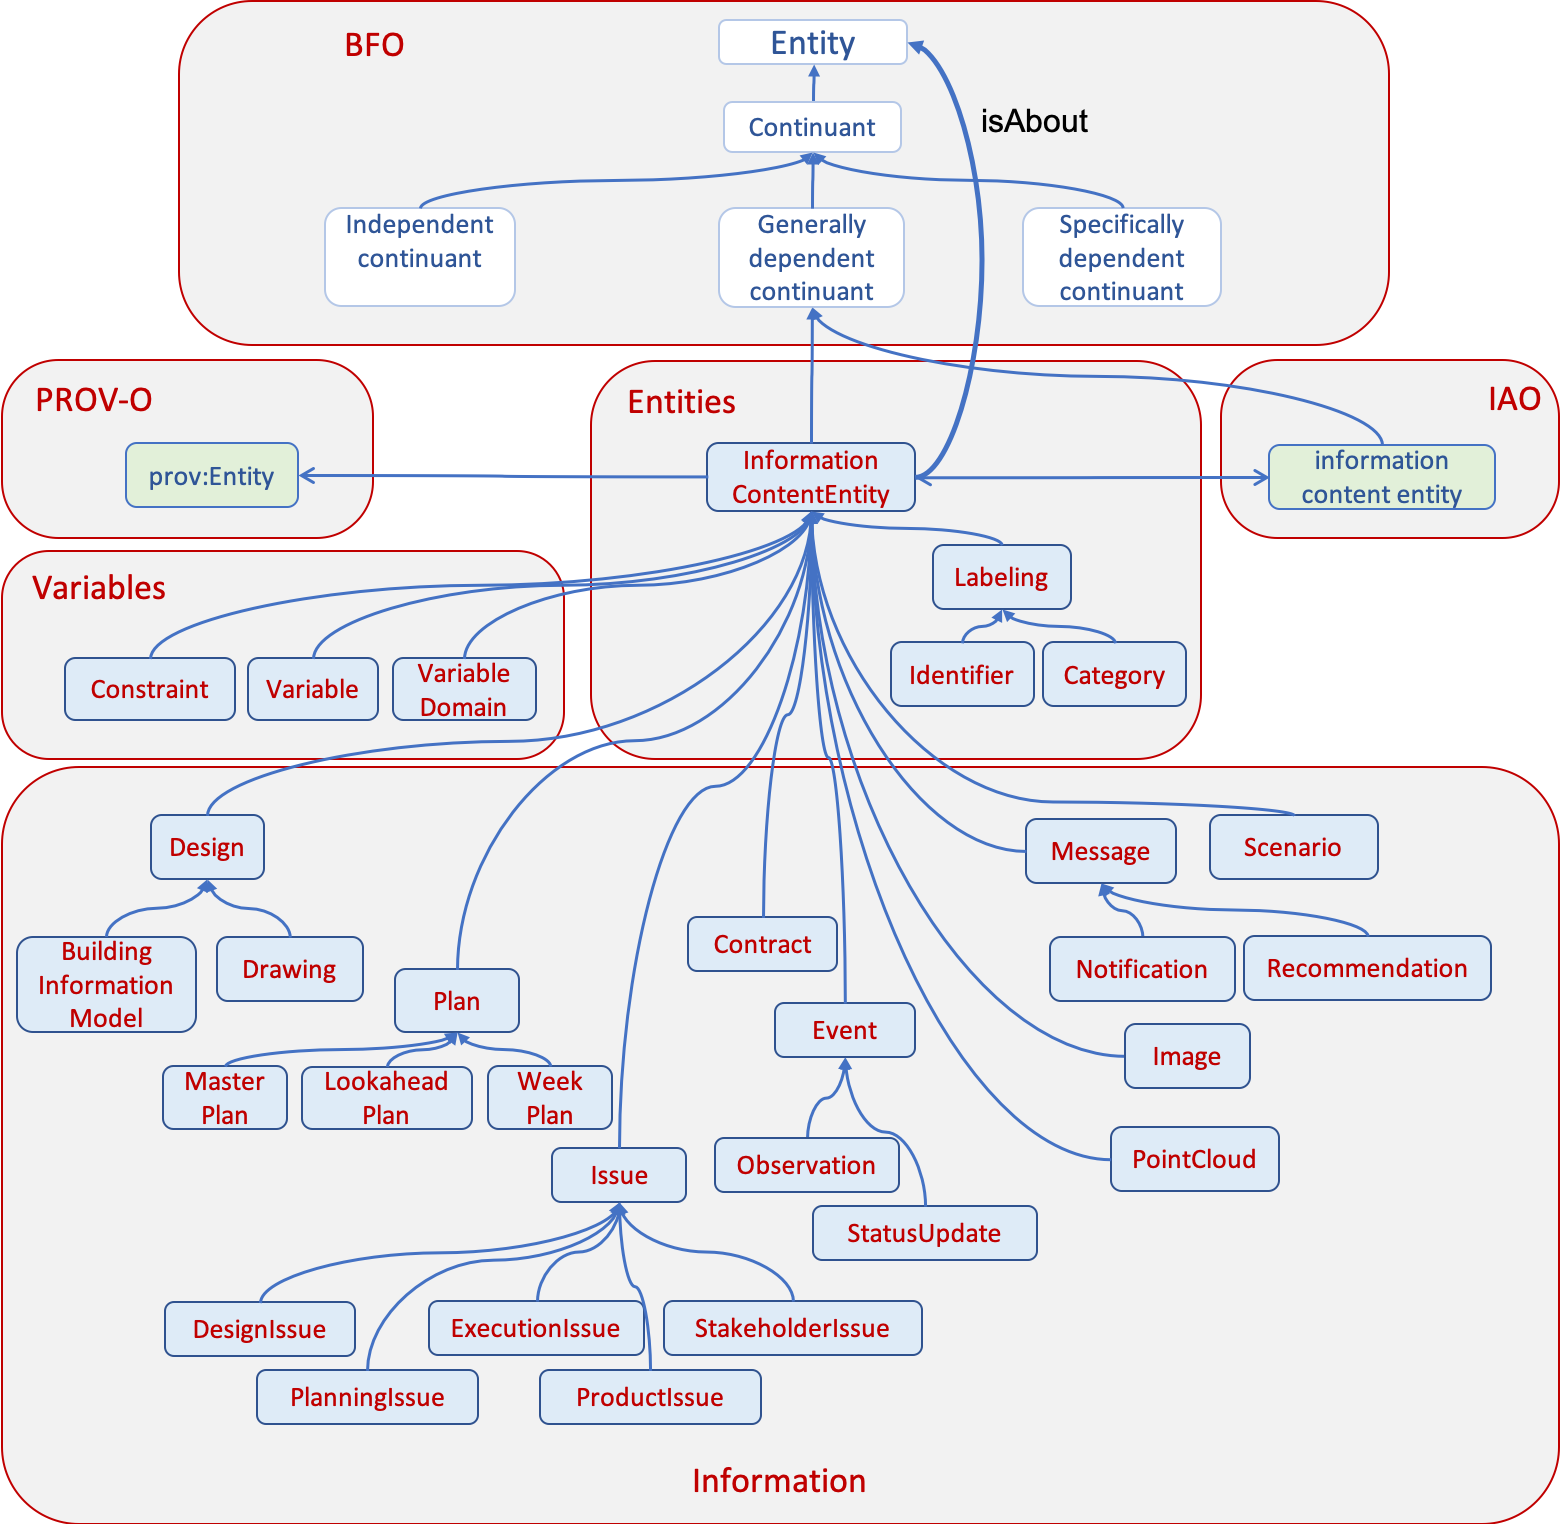
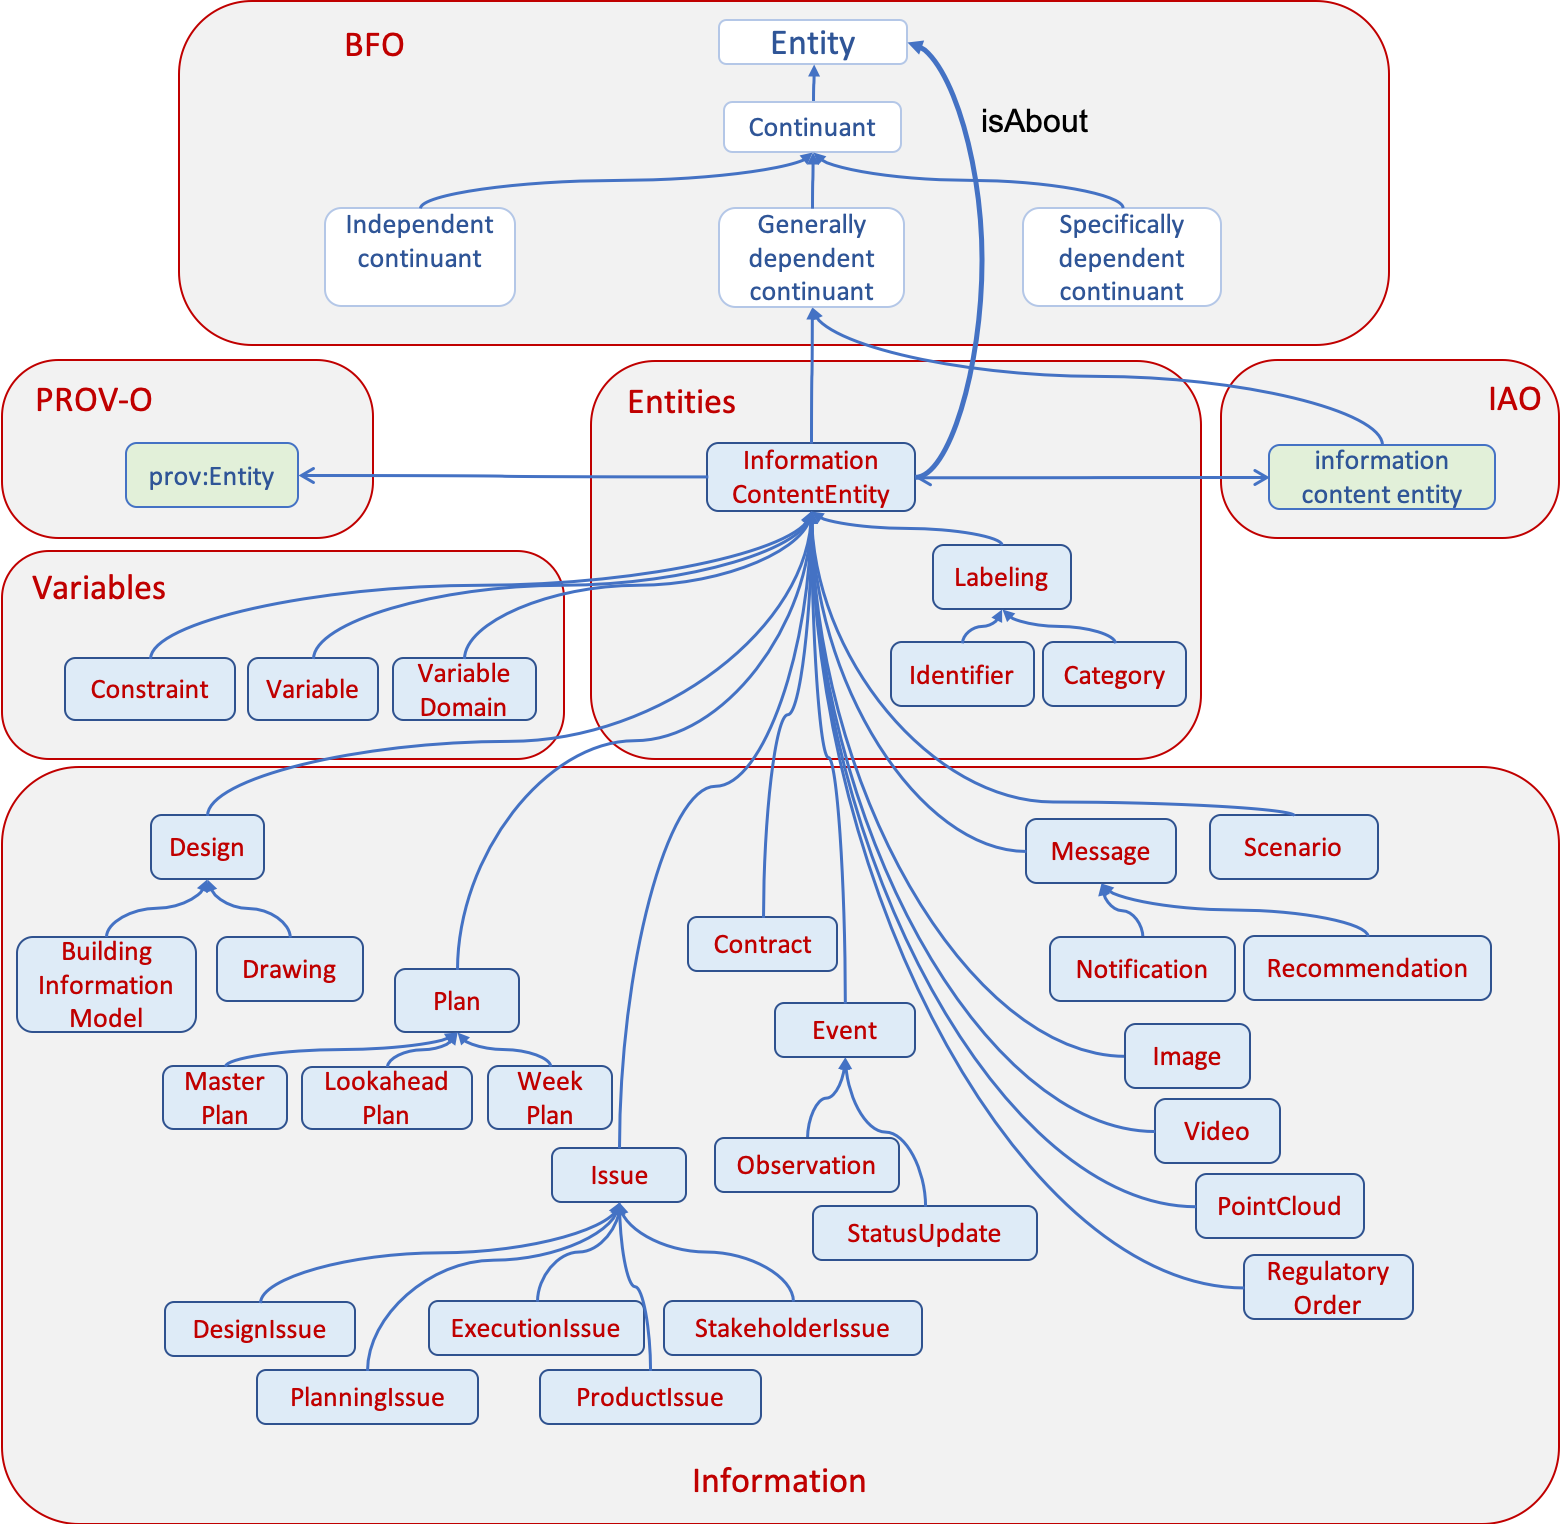
regulation

diff --git a/myDocumentation/sections/crossref-en.html b/myDocumentation/sections/crossref-en.html
@@ -124,6 +124,10 @@ This section provides details for each class and property defined by Digital Con
             title="https://w3id.org/digitalconstruction/Information#Recommendation">Recommendation</a>
       </li>
       <li>
+         <a href="#RegulatoryOrder"
+            title="https://w3id.org/digitalconstruction/Information#RegulatoryOrder">RegulatoryOrder</a>
+      </li>
+      <li>
          <a href="#ResourceConflict"
             title="https://w3id.org/digitalconstruction/Information#ResourceConflict">ResourceConflict</a>
       </li>
@@ -162,6 +166,10 @@ This section provides details for each class and property defined by Digital Con
       <li>
          <a href="#UnexecutableActivity"
             title="https://w3id.org/digitalconstruction/Information#UnexecutableActivity">UnexecutableActivity</a>
+      </li>
+      <li>
+         <a href="#Video"
+            title="https://w3id.org/digitalconstruction/Information#Video">Video</a>
       </li>
       <li>
          <a href="#WeekPlan"
@@ -920,6 +928,31 @@ This section provides details for each class and property defined by Digital Con
          </dd>
       </dl>
    </div>
+   <div class="entity" id="RegulatoryOrder">
+      <h3>RegulatoryOrder<sup class="type-c" title="class">c</sup>
+         <span class="backlink"> back to <a href="#toc">ToC</a> or <a href="#classes">Class ToC</a>
+         </span>
+      </h3>
+      <p>
+         <strong>IRI:</strong> https://w3id.org/digitalconstruction/Information#RegulatoryOrder</p>
+      <div class="comment">
+         <span class="markdown">Regulatory Order means any injunction, order, judgment, decree, memorandum of understanding, consent decree, directive or regulatory restriction, or any change in or interpretation of any law, rule or regulation, imposed by a Governmental Entity. (https://www.lawinsider.com/)</span>
+      </div>
+      <dl class="description">
+         <dt>has super-classes</dt>
+         <dd>
+            <span class="dotted"
+                  title="https://w3id.org/digitalconstruction/Entities#InformationContentEntity">information content entity</span>
+            <sup class="type-c" title="class">c</sup>
+         </dd>
+         <dt>is in domain of</dt>
+         <dd>
+            <a href="#imposedBy"
+               title="https://w3id.org/digitalconstruction/Information#imposedBy">imposedBy</a>
+            <sup class="type-op" title="object property">op</sup>
+         </dd>
+      </dl>
+   </div>
    <div class="entity" id="ResourceConflict">
       <h3>ResourceConflict<sup class="type-c" title="class">c</sup>
          <span class="backlink"> back to <a href="#toc">ToC</a> or <a href="#classes">Class ToC</a>
@@ -1113,6 +1146,22 @@ This section provides details for each class and property defined by Digital Con
          </dd>
       </dl>
    </div>
+   <div class="entity" id="Video">
+      <h3>Video<sup class="type-c" title="class">c</sup>
+         <span class="backlink"> back to <a href="#toc">ToC</a> or <a href="#classes">Class ToC</a>
+         </span>
+      </h3>
+      <p>
+         <strong>IRI:</strong> https://w3id.org/digitalconstruction/Information#Video</p>
+      <dl class="description">
+         <dt>has super-classes</dt>
+         <dd>
+            <span class="dotted"
+                  title="https://w3id.org/digitalconstruction/Entities#InformationContentEntity">information content entity</span>
+            <sup class="type-c" title="class">c</sup>
+         </dd>
+      </dl>
+   </div>
    <div class="entity" id="WeekPlan">
       <h3>WeekPlan<sup class="type-c" title="class">c</sup>
          <span class="backlink"> back to <a href="#toc">ToC</a> or <a href="#classes">Class ToC</a>
@@ -1199,6 +1248,10 @@ This section provides details for each class and property defined by Digital Con
       <li>
          <a href="#hasSolution"
             title="https://w3id.org/digitalconstruction/Information#hasSolution">hasSolution</a>
+      </li>
+      <li>
+         <a href="#imposedBy"
+            title="https://w3id.org/digitalconstruction/Information#imposedBy">imposedBy</a>
       </li>
       <li>
          <a href="#isPlannedActiviyOf"
@@ -1636,6 +1689,29 @@ This section provides details for each class and property defined by Digital Con
                <a href="#Issue"
                   title="https://w3id.org/digitalconstruction/Information#Issue">Issue</a>
                <sup class="type-c" title="class">c</sup>
+            </dd>
+         </dl>
+      </div>
+   </div>
+   <div class="entity" id="imposedBy">
+      <h3>imposedBy<sup class="type-op" title="object property">op</sup>
+         <span class="backlink"> back to <a href="#toc">ToC</a> or <a href="#objectproperties">Object Property ToC</a>
+         </span>
+      </h3>
+      <p>
+         <strong>IRI:</strong> https://w3id.org/digitalconstruction/Information#imposedBy</p>
+      <div class="description">
+         <dl>
+            <dt>has domain</dt>
+            <dd>
+               <a href="#RegulatoryOrder"
+                  title="https://w3id.org/digitalconstruction/Information#RegulatoryOrder">RegulatoryOrder</a>
+               <sup class="type-c" title="class">c</sup>
+            </dd>
+            <dt>has range</dt>
+            <dd>
+               <span class="dotted"
+                     title="https://w3id.org/digitalconstruction/Entities#Agent">agent</span>
             </dd>
          </dl>
       </div>

diff --git a/sections/crossref-en.html b/sections/crossref-en.html
@@ -124,6 +124,10 @@ This section provides details for each class and property defined by Digital Con
             title="https://w3id.org/digitalconstruction/Information#Recommendation">Recommendation</a>
       </li>
       <li>
+         <a href="#RegulatoryOrder"
+            title="https://w3id.org/digitalconstruction/Information#RegulatoryOrder">RegulatoryOrder</a>
+      </li>
+      <li>
          <a href="#ResourceConflict"
             title="https://w3id.org/digitalconstruction/Information#ResourceConflict">ResourceConflict</a>
       </li>
@@ -162,6 +166,10 @@ This section provides details for each class and property defined by Digital Con
       <li>
          <a href="#UnexecutableActivity"
             title="https://w3id.org/digitalconstruction/Information#UnexecutableActivity">UnexecutableActivity</a>
+      </li>
+      <li>
+         <a href="#Video"
+            title="https://w3id.org/digitalconstruction/Information#Video">Video</a>
       </li>
       <li>
          <a href="#WeekPlan"
@@ -920,6 +928,31 @@ This section provides details for each class and property defined by Digital Con
          </dd>
       </dl>
    </div>
+   <div class="entity" id="RegulatoryOrder">
+      <h3>RegulatoryOrder<sup class="type-c" title="class">c</sup>
+         <span class="backlink"> back to <a href="#toc">ToC</a> or <a href="#classes">Class ToC</a>
+         </span>
+      </h3>
+      <p>
+         <strong>IRI:</strong> https://w3id.org/digitalconstruction/Information#RegulatoryOrder</p>
+      <div class="comment">
+         <span class="markdown">Regulatory Order means any injunction, order, judgment, decree, memorandum of understanding, consent decree, directive or regulatory restriction, or any change in or interpretation of any law, rule or regulation, imposed by a Governmental Entity. (https://www.lawinsider.com/)</span>
+      </div>
+      <dl class="description">
+         <dt>has super-classes</dt>
+         <dd>
+            <span class="dotted"
+                  title="https://w3id.org/digitalconstruction/Entities#InformationContentEntity">information content entity</span>
+            <sup class="type-c" title="class">c</sup>
+         </dd>
+         <dt>is in domain of</dt>
+         <dd>
+            <a href="#imposedBy"
+               title="https://w3id.org/digitalconstruction/Information#imposedBy">imposedBy</a>
+            <sup class="type-op" title="object property">op</sup>
+         </dd>
+      </dl>
+   </div>
    <div class="entity" id="ResourceConflict">
       <h3>ResourceConflict<sup class="type-c" title="class">c</sup>
          <span class="backlink"> back to <a href="#toc">ToC</a> or <a href="#classes">Class ToC</a>
@@ -1113,6 +1146,22 @@ This section provides details for each class and property defined by Digital Con
          </dd>
       </dl>
    </div>
+   <div class="entity" id="Video">
+      <h3>Video<sup class="type-c" title="class">c</sup>
+         <span class="backlink"> back to <a href="#toc">ToC</a> or <a href="#classes">Class ToC</a>
+         </span>
+      </h3>
+      <p>
+         <strong>IRI:</strong> https://w3id.org/digitalconstruction/Information#Video</p>
+      <dl class="description">
+         <dt>has super-classes</dt>
+         <dd>
+            <span class="dotted"
+                  title="https://w3id.org/digitalconstruction/Entities#InformationContentEntity">information content entity</span>
+            <sup class="type-c" title="class">c</sup>
+         </dd>
+      </dl>
+   </div>
    <div class="entity" id="WeekPlan">
       <h3>WeekPlan<sup class="type-c" title="class">c</sup>
          <span class="backlink"> back to <a href="#toc">ToC</a> or <a href="#classes">Class ToC</a>
@@ -1199,6 +1248,10 @@ This section provides details for each class and property defined by Digital Con
       <li>
          <a href="#hasSolution"
             title="https://w3id.org/digitalconstruction/Information#hasSolution">hasSolution</a>
+      </li>
+      <li>
+         <a href="#imposedBy"
+            title="https://w3id.org/digitalconstruction/Information#imposedBy">imposedBy</a>
       </li>
       <li>
          <a href="#isPlannedActiviyOf"
@@ -1636,6 +1689,29 @@ This section provides details for each class and property defined by Digital Con
                <a href="#Issue"
                   title="https://w3id.org/digitalconstruction/Information#Issue">Issue</a>
                <sup class="type-c" title="class">c</sup>
+            </dd>
+         </dl>
+      </div>
+   </div>
+   <div class="entity" id="imposedBy">
+      <h3>imposedBy<sup class="type-op" title="object property">op</sup>
+         <span class="backlink"> back to <a href="#toc">ToC</a> or <a href="#objectproperties">Object Property ToC</a>
+         </span>
+      </h3>
+      <p>
+         <strong>IRI:</strong> https://w3id.org/digitalconstruction/Information#imposedBy</p>
+      <div class="description">
+         <dl>
+            <dt>has domain</dt>
+            <dd>
+               <a href="#RegulatoryOrder"
+                  title="https://w3id.org/digitalconstruction/Information#RegulatoryOrder">RegulatoryOrder</a>
+               <sup class="type-c" title="class">c</sup>
+            </dd>
+            <dt>has range</dt>
+            <dd>
+               <span class="dotted"
+                     title="https://w3id.org/digitalconstruction/Entities#Agent">agent</span>
             </dd>
          </dl>
       </div>

diff --git a/myDocumentation/sections/overview-en.html b/myDocumentation/sections/overview-en.html
@@ -124,6 +124,10 @@ This ontology has the following classes and properties.</span>
          title="https://w3id.org/digitalconstruction/Information#Recommendation">Recommendation</a>
    </li>
    <li>
+      <a href="#RegulatoryOrder"
+         title="https://w3id.org/digitalconstruction/Information#RegulatoryOrder">RegulatoryOrder</a>
+   </li>
+   <li>
       <a href="#ResourceConflict"
          title="https://w3id.org/digitalconstruction/Information#ResourceConflict">ResourceConflict</a>
    </li>
@@ -162,6 +166,10 @@ This ontology has the following classes and properties.</span>
    <li>
       <a href="#UnexecutableActivity"
          title="https://w3id.org/digitalconstruction/Information#UnexecutableActivity">UnexecutableActivity</a>
+   </li>
+   <li>
+      <a href="#Video"
+         title="https://w3id.org/digitalconstruction/Information#Video">Video</a>
    </li>
    <li>
       <a href="#WeekPlan"
@@ -235,6 +243,10 @@ This ontology has the following classes and properties.</span>
    <li>
       <a href="#hasSolution"
          title="https://w3id.org/digitalconstruction/Information#hasSolution">hasSolution</a>
+   </li>
+   <li>
+      <a href="#imposedBy"
+         title="https://w3id.org/digitalconstruction/Information#imposedBy">imposedBy</a>
    </li>
    <li>
       <a href="#isPlannedActiviyOf"

diff --git a/sections/overview-en.html b/sections/overview-en.html
@@ -124,6 +124,10 @@ This ontology has the following classes and properties.</span>
          title="https://w3id.org/digitalconstruction/Information#Recommendation">Recommendation</a>
    </li>
    <li>
+      <a href="#RegulatoryOrder"
+         title="https://w3id.org/digitalconstruction/Information#RegulatoryOrder">RegulatoryOrder</a>
+   </li>
+   <li>
       <a href="#ResourceConflict"
          title="https://w3id.org/digitalconstruction/Information#ResourceConflict">ResourceConflict</a>
    </li>
@@ -162,6 +166,10 @@ This ontology has the following classes and properties.</span>
    <li>
       <a href="#UnexecutableActivity"
          title="https://w3id.org/digitalconstruction/Information#UnexecutableActivity">UnexecutableActivity</a>
+   </li>
+   <li>
+      <a href="#Video"
+         title="https://w3id.org/digitalconstruction/Information#Video">Video</a>
    </li>
    <li>
       <a href="#WeekPlan"
@@ -235,6 +243,10 @@ This ontology has the following classes and properties.</span>
    <li>
       <a href="#hasSolution"
          title="https://w3id.org/digitalconstruction/Information#hasSolution">hasSolution</a>
+   </li>
+   <li>
+      <a href="#imposedBy"
+         title="https://w3id.org/digitalconstruction/Information#imposedBy">imposedBy</a>
    </li>
    <li>
       <a href="#isPlannedActiviyOf"
